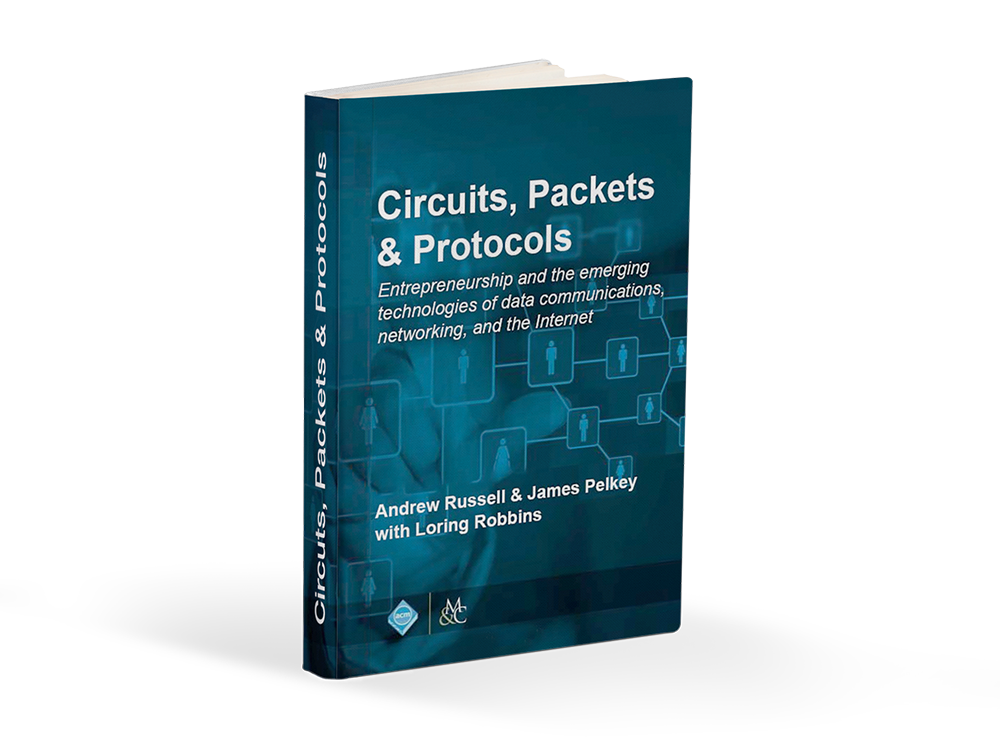
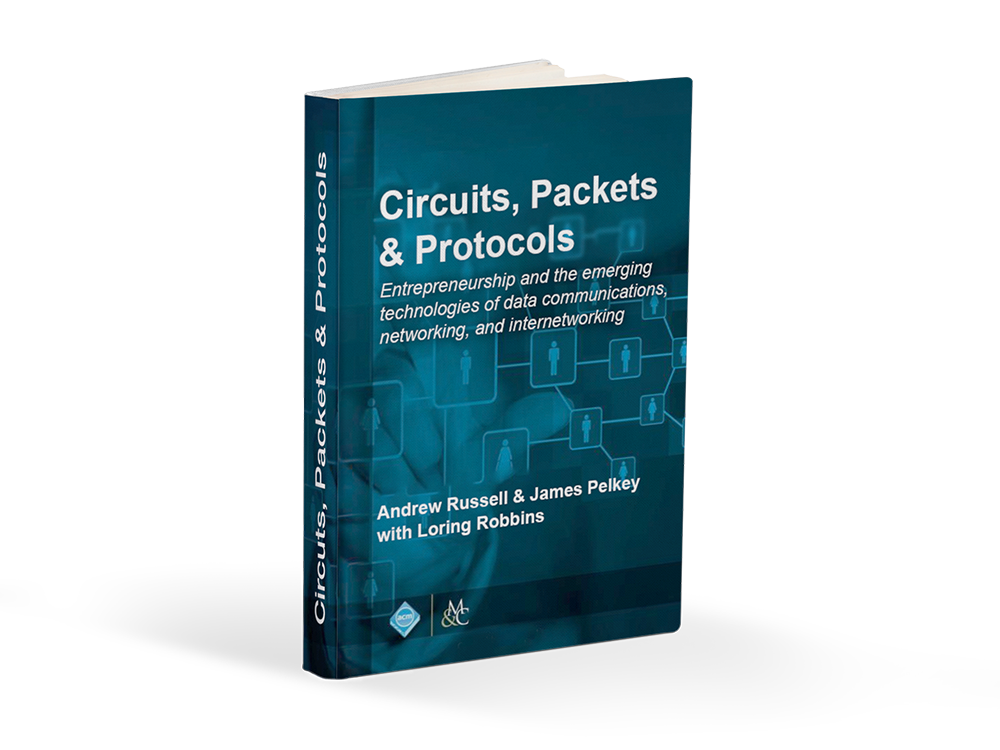
Footnote styling and internetworking line

Changed region(s): [[0.341, 0.2147, 0.713, 0.8587], [0.341, 0.1227, 0.372, 0.184], [0.341, 0.8587, 0.372, 0.8893]]

diff --git a/_layouts/template.html b/_layouts/template.html
@@ -43,42 +43,44 @@
             <h1 id="chapter-title">{{ chapterTitle }}</h1>
             <p id="section-title">{{ sectionTitle }}</p>
             <content>{{ content }}</content>
+
+            <div class="prevnav">
+              <div id="prevwrap" {%- if prev == "" -%}class="hide"{%- endif -%}>
+                <a id="preva" href="{%- if prev != '' -%}/History-of-Computer-Communications{{ prev }}{%- endif -%}">
+                  <svg version="1.1" id="prev-arrow" width="27px" height="27px" xmlns="http://www.w3.org/2000/svg" x="0" y="0" viewBox="0 0 27 27" xml:space="preserve">
+                    <style>.st0{fill:#535453}</style>
+                    <g id="Icon_ionic-ios-arrow-dropright" transform="rotate(180 15.539 15.539)">
+                      <path id="Path_11" class="st0" d="M14.2 10c.5-.5 1.3-.5 1.8 0l6.4 6.4c.5.5.5 1.3 0 1.8l-6.3 6.3c-.5.5-1.3.5-1.8 0s-.5-1.3 0-1.8l5.3-5.4-5.5-5.4c-.4-.6-.4-1.4.1-1.9z"/>
+                      <path id="Path_12" class="st0" d="M3.4 17.2c0 7.7 6.2 13.9 13.9 13.9s13.9-6.2 13.9-13.9-6.3-13.8-14-13.8C9.6 3.4 3.4 9.6 3.4 17.2zm2.1 0c0-6.5 5.2-11.7 11.7-11.7 3.1 0 6.1 1.2 8.3 3.4 4.7 4.5 4.8 11.9.3 16.6s-11.9 4.8-16.6.3l-.3-.3c-2.2-2.2-3.4-5.2-3.4-8.3z"/>
+                    </g>
+                  </svg>
+                  <span>&nbsp;Previous</span>
+                </a>
+              </div>
+              <div id="nextwrap" {%- if next == "" -%}class="hide"{%- endif -%}>
+                <a id="nexta" href="{%- if next != '' -%}/History-of-Computer-Communications{{ next }}{%- endif -%}">
+                  <span>Next&nbsp;</span>
+                  <svg version="1.1" id="next-arrow" width="27px" height="27px" xmlns="http://www.w3.org/2000/svg" x="0" y="0" viewBox="0 0 27.7 27.7" xml:space="preserve">
+                    <style>.st0{fill:#535453}</style>
+                    <g id="Icon_ionic-ios-arrow-dropright" transform="rotate(180 15.539 15.539)">
+                      <path id="Path_11" class="st0" d="M20.2 24.4c-.5.5-1.3.5-1.8 0L12 18c-.5-.5-.5-1.3 0-1.8l6.3-6.3c.5-.5 1.3-.5 1.8 0s.5 1.3 0 1.8l-5.3 5.4 5.5 5.4c.4.6.5 1.4-.1 1.9.1 0 0 0 0 0z"/>
+                      <path id="Path_12" class="st0" d="M31.1 17.2c0-7.7-6.2-13.9-13.9-13.9S3.4 9.6 3.4 17.2s6.2 13.9 13.9 13.9c7.6 0 13.8-6.2 13.8-13.9zm-2.2 0c0 6.5-5.2 11.7-11.7 11.7-3.1 0-6.1-1.2-8.3-3.4C4.3 21 4.1 13.6 8.6 8.9s11.9-4.8 16.6-.3l.3.3c2.2 2.2 3.5 5.2 3.4 8.3z"/>
+                    </g>
+                  </svg>
+                </a>
+              </div>
+            </div>
+            <div class="fn-spacer"></div>
             <div id="footnotes">
             {%- if page.footnotes -%}
               <ul>
                 {%- for item in page.footnotes -%}
-                <li><a name="fn{{ item.num }}" href="#fnloc{{ item.num }}">[{{ item.num }}]</a>: {{ item.src | strip | markdownify | strip }}</li>
+                <li><a name="fn{{ item.num }}" href="#fnloc{{ item.num }}">[{{ item.num }}]</a><div class="semi">:</div>{{ item.src | strip | markdownify | strip }}</li>
                 {%- endfor -%}
               </ul>
             {%- endif -%}
             </div>
           </section>
-          <div class="prevnav">
-            <div id="prevwrap" {%- if prev == "" -%}class="hide"{%- endif -%}>
-              <a id="preva" href="{%- if prev != '' -%}/History-of-Computer-Communications{{ prev }}{%- endif -%}">
-                <svg version="1.1" id="prev-arrow" width="27px" height="27px" xmlns="http://www.w3.org/2000/svg" x="0" y="0" viewBox="0 0 27 27" xml:space="preserve">
-                  <style>.st0{fill:#535453}</style>
-                  <g id="Icon_ionic-ios-arrow-dropright" transform="rotate(180 15.539 15.539)">
-                    <path id="Path_11" class="st0" d="M14.2 10c.5-.5 1.3-.5 1.8 0l6.4 6.4c.5.5.5 1.3 0 1.8l-6.3 6.3c-.5.5-1.3.5-1.8 0s-.5-1.3 0-1.8l5.3-5.4-5.5-5.4c-.4-.6-.4-1.4.1-1.9z"/>
-                    <path id="Path_12" class="st0" d="M3.4 17.2c0 7.7 6.2 13.9 13.9 13.9s13.9-6.2 13.9-13.9-6.3-13.8-14-13.8C9.6 3.4 3.4 9.6 3.4 17.2zm2.1 0c0-6.5 5.2-11.7 11.7-11.7 3.1 0 6.1 1.2 8.3 3.4 4.7 4.5 4.8 11.9.3 16.6s-11.9 4.8-16.6.3l-.3-.3c-2.2-2.2-3.4-5.2-3.4-8.3z"/>
-                  </g>
-                </svg>
-                <span>&nbsp;Previous</span>
-              </a>
-            </div>
-            <div id="nextwrap" {%- if next == "" -%}class="hide"{%- endif -%}>
-              <a id="nexta" href="{%- if next != '' -%}/History-of-Computer-Communications{{ next }}{%- endif -%}">
-                <span>Next&nbsp;</span>
-                <svg version="1.1" id="next-arrow" width="27px" height="27px" xmlns="http://www.w3.org/2000/svg" x="0" y="0" viewBox="0 0 27.7 27.7" xml:space="preserve">
-                  <style>.st0{fill:#535453}</style>
-                  <g id="Icon_ionic-ios-arrow-dropright" transform="rotate(180 15.539 15.539)">
-                    <path id="Path_11" class="st0" d="M20.2 24.4c-.5.5-1.3.5-1.8 0L12 18c-.5-.5-.5-1.3 0-1.8l6.3-6.3c.5-.5 1.3-.5 1.8 0s.5 1.3 0 1.8l-5.3 5.4 5.5 5.4c.4.6.5 1.4-.1 1.9.1 0 0 0 0 0z"/>
-                    <path id="Path_12" class="st0" d="M31.1 17.2c0-7.7-6.2-13.9-13.9-13.9S3.4 9.6 3.4 17.2s6.2 13.9 13.9 13.9c7.6 0 13.8-6.2 13.8-13.9zm-2.2 0c0 6.5-5.2 11.7-11.7 11.7-3.1 0-6.1-1.2-8.3-3.4C4.3 21 4.1 13.6 8.6 8.9s11.9-4.8 16.6-.3l.3.3c2.2 2.2 3.5 5.2 3.4 8.3z"/>
-                  </g>
-                </svg>
-              </a>
-            </div>
-          </div>
         </div>      
       </div>
       

diff --git a/assets/css/main.css b/assets/css/main.css
@@ -657,9 +657,15 @@ label > svg {
   align-content: center;
   flex-direction: column;
 }
+.fn-spacer {
+  width: 100%;
+  border-bottom: 1px solid #707070;
+  margin: 33px 0px 24px;   
+}
 .prevnav {
   display:flex;
   justify-content: space-between;
+  margin-top: 33px;
 }
 .prevnav > a svg {
   width: 27px;
@@ -682,7 +688,7 @@ label > svg {
   text-decoration: none;
   color: var(--gray-darker);
   font-size: 15px;
-  font-weight: 700px;
+  font-weight: 700;
 }
 .prevnav a span {
   margin-top:-3px;
@@ -716,11 +722,18 @@ section > p#section-title {
   font-style: normal;
 }
 section a[name^="fnloc"] {
-  color: var(--bg-blue);
   text-decoration: none;
-  font-weight: 700;
+  font-weight: 400;
   font-size: 16px;
-  vertical-align: super;
+  /*vertical-align: super;*/
+  color: var(--gray-darker);
+  margin-left: 2px;
+}
+section a[name^="fnloc"]:before {
+  content: "[";    
+}
+section a[name^="fnloc"]:after {
+  content: "]";
 }
 /*section p img[src*="-l"] { }*/
 section p div.imgl {
@@ -742,16 +755,44 @@ section p div.imgl h3 {
   text-align: center;
   font-family: acumin-pro, sans-serif;
   font-style: normal;
-  font-weight: 700px;
+  font-weight: 700;
   line-height: 21px;
   font-size: 16px;
+}
+content > p {
+  color: var(--gray-darker);
+  line-height: 25px;
+}
+#footnotes {
+  font-family: acumin-pro, sans-serif;
+  font-style: normal;
+  font-weight: 400;
+  color: var(--gray-darker);
+}
+div#footnotes > ul {
+  padding: 0;
+  list-style-type: none;
+}
+#footnotes > ul > li {
+  display: flex;
+}
+#footnotes > ul > li > p {
+  margin: 0;
+  line-height: 22px;
+  font-size: 14px;
+}
+div.semi {
+  margin: 0 4px 0 2px;
 }
 #footnotes > ul > li > a {
   color: var(--bg-blue);
   text-decoration: none;
-  font-weight: 700;
-  font-size: 20px;
-  letter-spacing: 2px; 
+  font-weight: 400;
+  font-size: 14px;
+  line-height: 22px;
+}
+#footnotes > ul > li > a:after { 
+  content: ":",
 }
 blockquote {
   margin: 0 0 0 25px;
@@ -964,7 +1005,7 @@ ul.group-list li ul.sub-group-list li ul.sub-sub-group-list li ul.sub-sub-group-
   font-family: acumin-pro, sans-serif;
   font-weight: 600;
   font-style: normal;
-  color: #414141;
+  color: var(--gray-darker);
   line-height: 30px;
   font-size: 24px;
 }
@@ -984,14 +1025,14 @@ ul.group-list li ul.sub-group-list li ul.sub-sub-group-list li ul.sub-sub-group-
   font-style: normal;
   line-height: 27px;
   font-size: 16px;
-  color: #414141;
+  color: var(--gray-darker);
   margin: 0 0 18px 0;
 }
 .pagecontent > p {
   font-family: acumin-pro, sans-serif;
   font-weight: 500;
   font-style: normal;
-  color: #414141;
+  color: var(--gray-darker);
   line-height: 27px;
   margin: 0;
   padding: 0;
@@ -1018,7 +1059,7 @@ ul.group-list li ul.sub-group-list li ul.sub-sub-group-list li ul.sub-sub-group-
   font-family: acumin-pro, sans-serif;
   font-weight: 500;
   font-style: normal;
-  color: #414141;
+  color: var(--gray-darker);
   line-height: 27px;
   font-size: 16px;
 }

diff --git a/_includes/home.html b/_includes/home.html
@@ -32,7 +32,7 @@
               <img src="{{ site.baseurl }}/assets/img/book.png" alt="Circuits, Packets & Protocols">
               <div>
                 <h2>Circuits, Packets & Protocols</h2>
-                <p>Entrepreneurship and the emerging technologies of data communications, networking and the Internet</p>
+                <p>Entrepreneurship and the emerging technologies of data communications, networking and internetworking</p>
                 <h3>A newly edited history based on material from this site</h3>
                 <h3>Coming this Fall in hardback</h3>
                 <a href="" class="preorder">Preorder Book</a>
